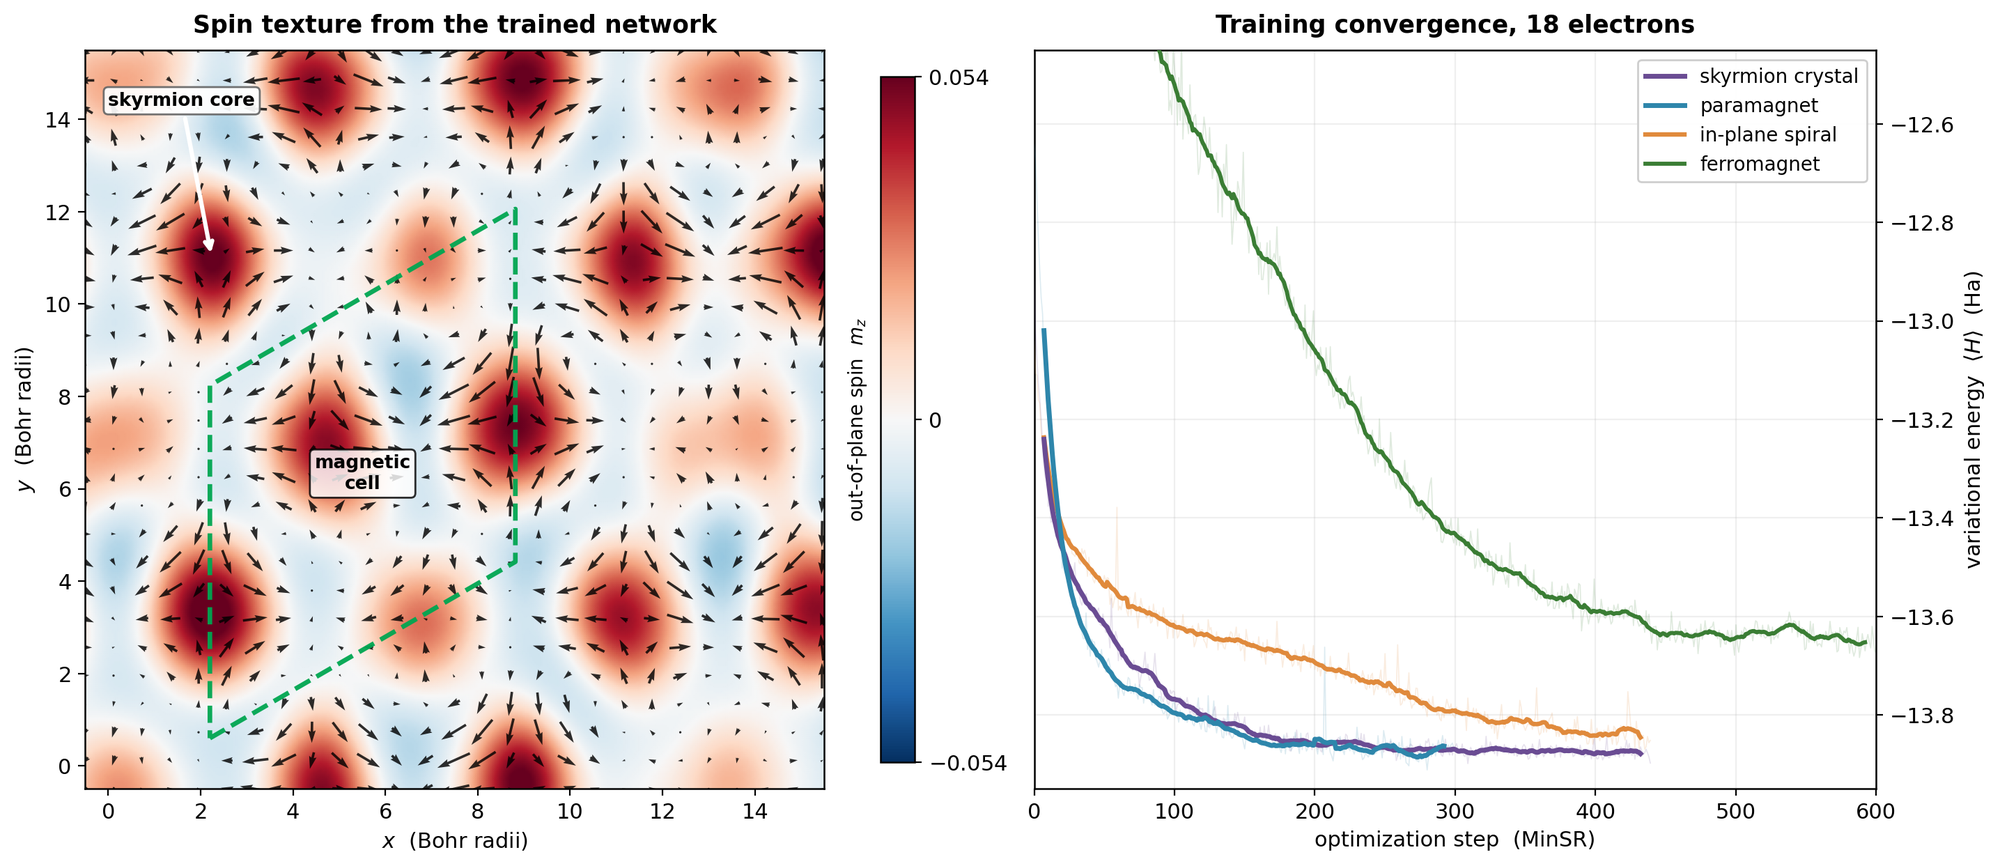
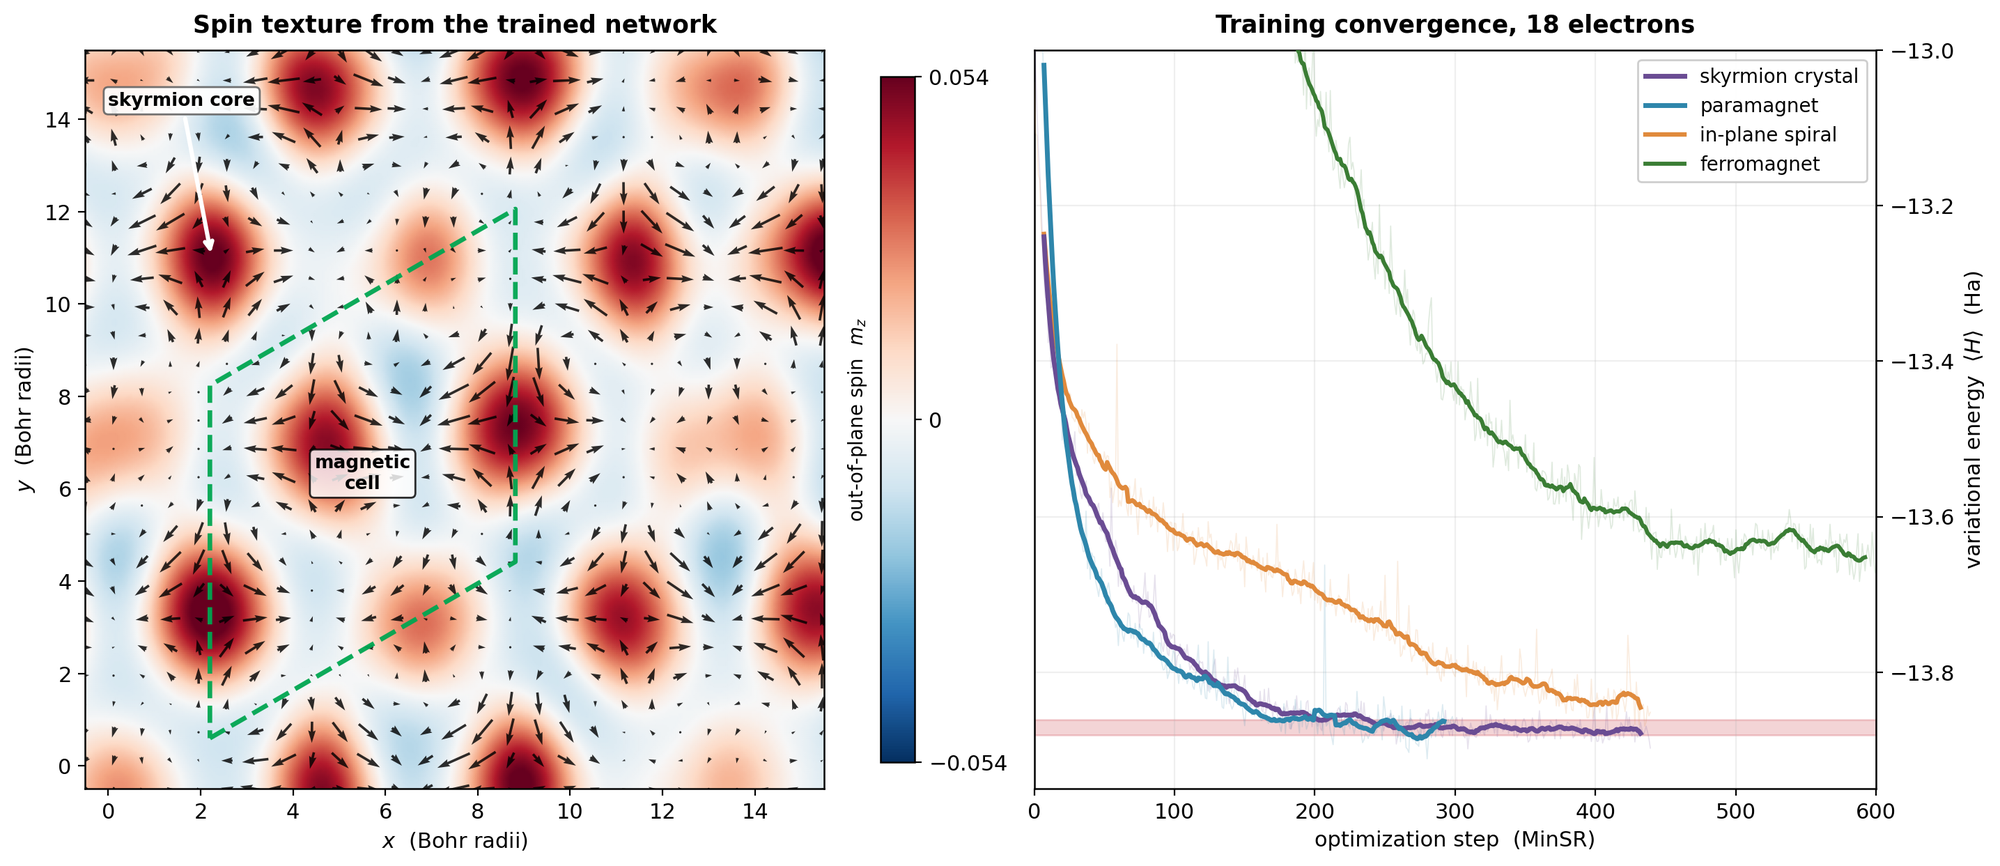
NQS figure: tighten convergence y-range + restore the tie-band
- Crop Panel B to below -13 Ha (drop the empty upper region; the four
  curves now fill the frame).
- Restore the red shaded band (axhspan -13.881..-13.861) from the original
  plot's zoom panel, marking where the skyrmion-crystal and paramagnet
  plateaus meet. No annotation text.

diff --git a/figure-src/build_nqs_figure.py b/figure-src/build_nqs_figure.py
@@ -90,7 +90,8 @@ for y, col, lab, lw, z in [(skx, C_SKX, "skyrmion crystal", 2.5, 6), (fluid, C_F
                            (spiral, C_SP, "in-plane spiral", 2.3, 5), (fm, C_FM, "ferromagnet", 2.1, 4)]:
     axB.plot(np.arange(len(y)), y, color=col, lw=0.6, alpha=0.16, zorder=z - 1)
     ra = runavg(y); axB.plot(np.arange(len(ra)) + 7, ra, color=col, lw=lw, label=lab, zorder=z)
-axB.set_xlim(0, 600); axB.set_ylim(-13.95, -12.45); axB.grid(alpha=0.2)
+axB.set_xlim(0, 600); axB.set_ylim(-13.95, -13.0); axB.grid(alpha=0.2)
+axB.axhspan(-13.881, -13.861, color="#c1121f", alpha=0.18, zorder=0)   # skyrmion crystal <-> paramagnet tie
 axB.set_xlabel("optimization step  (MinSR)")
 axB.set_ylabel(r"variational energy  $\langle H\rangle$  (Ha)")
 axB.yaxis.set_label_position("right"); axB.yaxis.tick_right()   # mirror layout keeps the middle gap clean